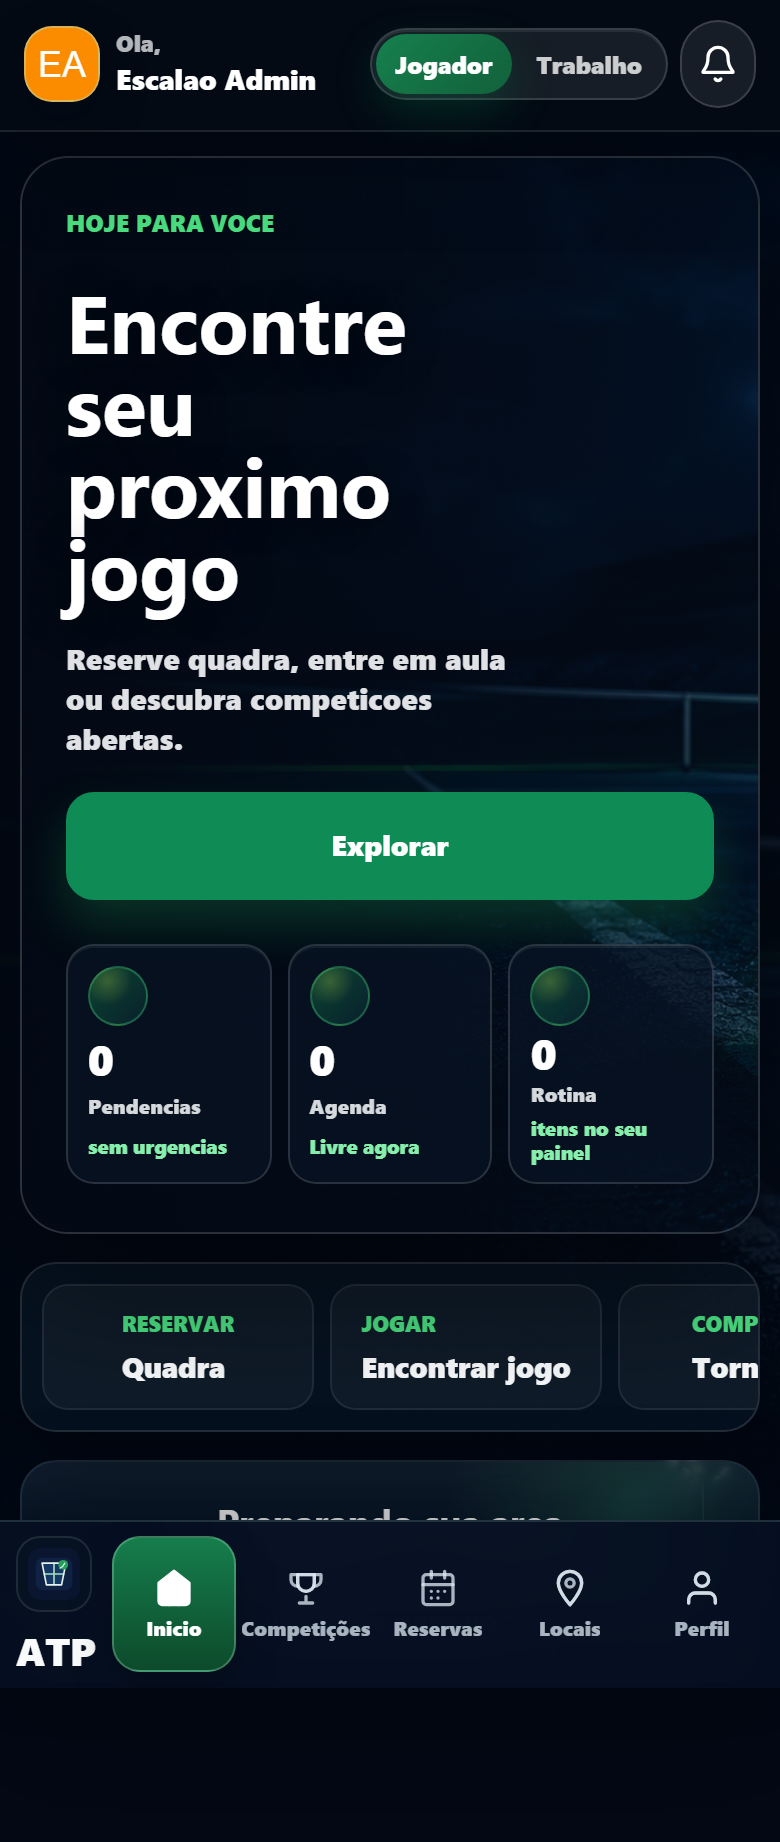
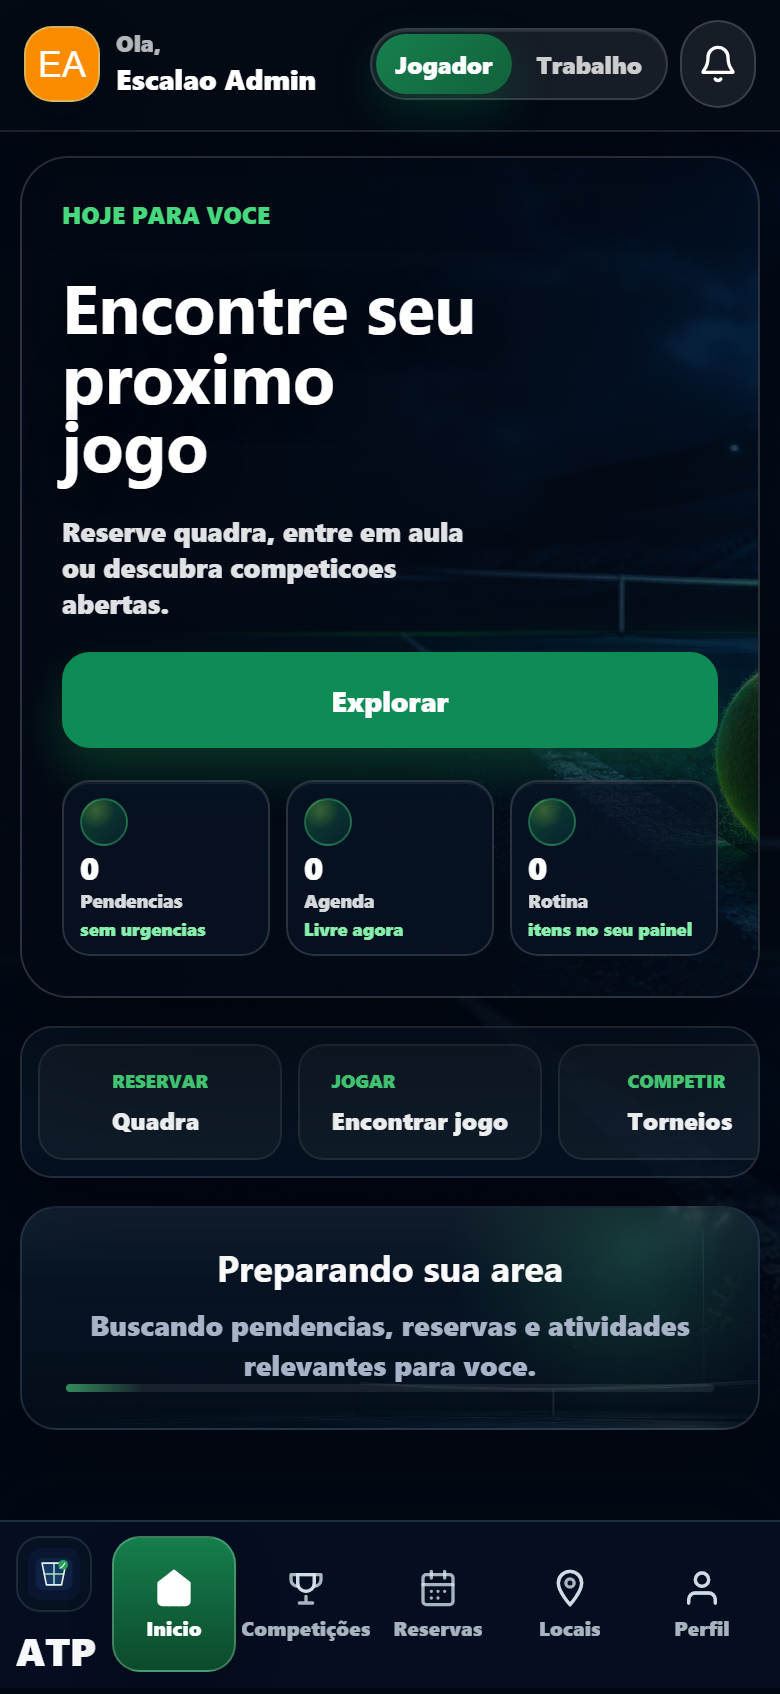
feat: ATP fase 1 — rebrand, perfil, locais, schema base

diff --git a/apps/web/src/App.css b/apps/web/src/App.css
@@ -28100,6 +28100,52 @@ body:has(.app-shell--player .home-player-os--visual),
     padding: 12px;
   }
 
+  .app-shell--player:has(.home-player-os--visual) .home-agenda-preview-grid {
+    display: grid;
+    gap: 10px;
+    grid-auto-columns: unset;
+    grid-auto-flow: row;
+    grid-template-columns: minmax(0, 1fr);
+    overflow: visible;
+    padding-bottom: 0;
+  }
+
+  .app-shell--player:has(.home-player-os--visual) .home-agenda-preview-card {
+    align-content: start;
+    display: grid;
+    gap: 6px;
+    min-height: 132px;
+    overflow: hidden;
+    padding: 14px;
+    scroll-snap-align: unset;
+    width: 100%;
+  }
+
+  .app-shell--player:has(.home-player-os--visual) .home-agenda-preview-card span,
+  .app-shell--player:has(.home-player-os--visual) .home-agenda-preview-card strong,
+  .app-shell--player:has(.home-player-os--visual) .home-agenda-preview-card small,
+  .app-shell--player:has(.home-player-os--visual) .home-agenda-preview-card em {
+    display: block;
+    max-width: 100%;
+    overflow-wrap: anywhere;
+  }
+
+  .app-shell--player:has(.home-player-os--visual) .home-agenda-preview-card span {
+    font-size: 0.62rem;
+    line-height: 1.1;
+  }
+
+  .app-shell--player:has(.home-player-os--visual) .home-agenda-preview-card strong {
+    font-size: 0.95rem;
+    line-height: 1.15;
+  }
+
+  .app-shell--player:has(.home-player-os--visual) .home-agenda-preview-card small,
+  .app-shell--player:has(.home-player-os--visual) .home-agenda-preview-card em {
+    font-size: 0.72rem;
+    line-height: 1.25;
+  }
+
   .app-shell--player:has(.home-player-os--visual) .home-spotlight-card {
     min-height: 142px;
     padding: 14px;
